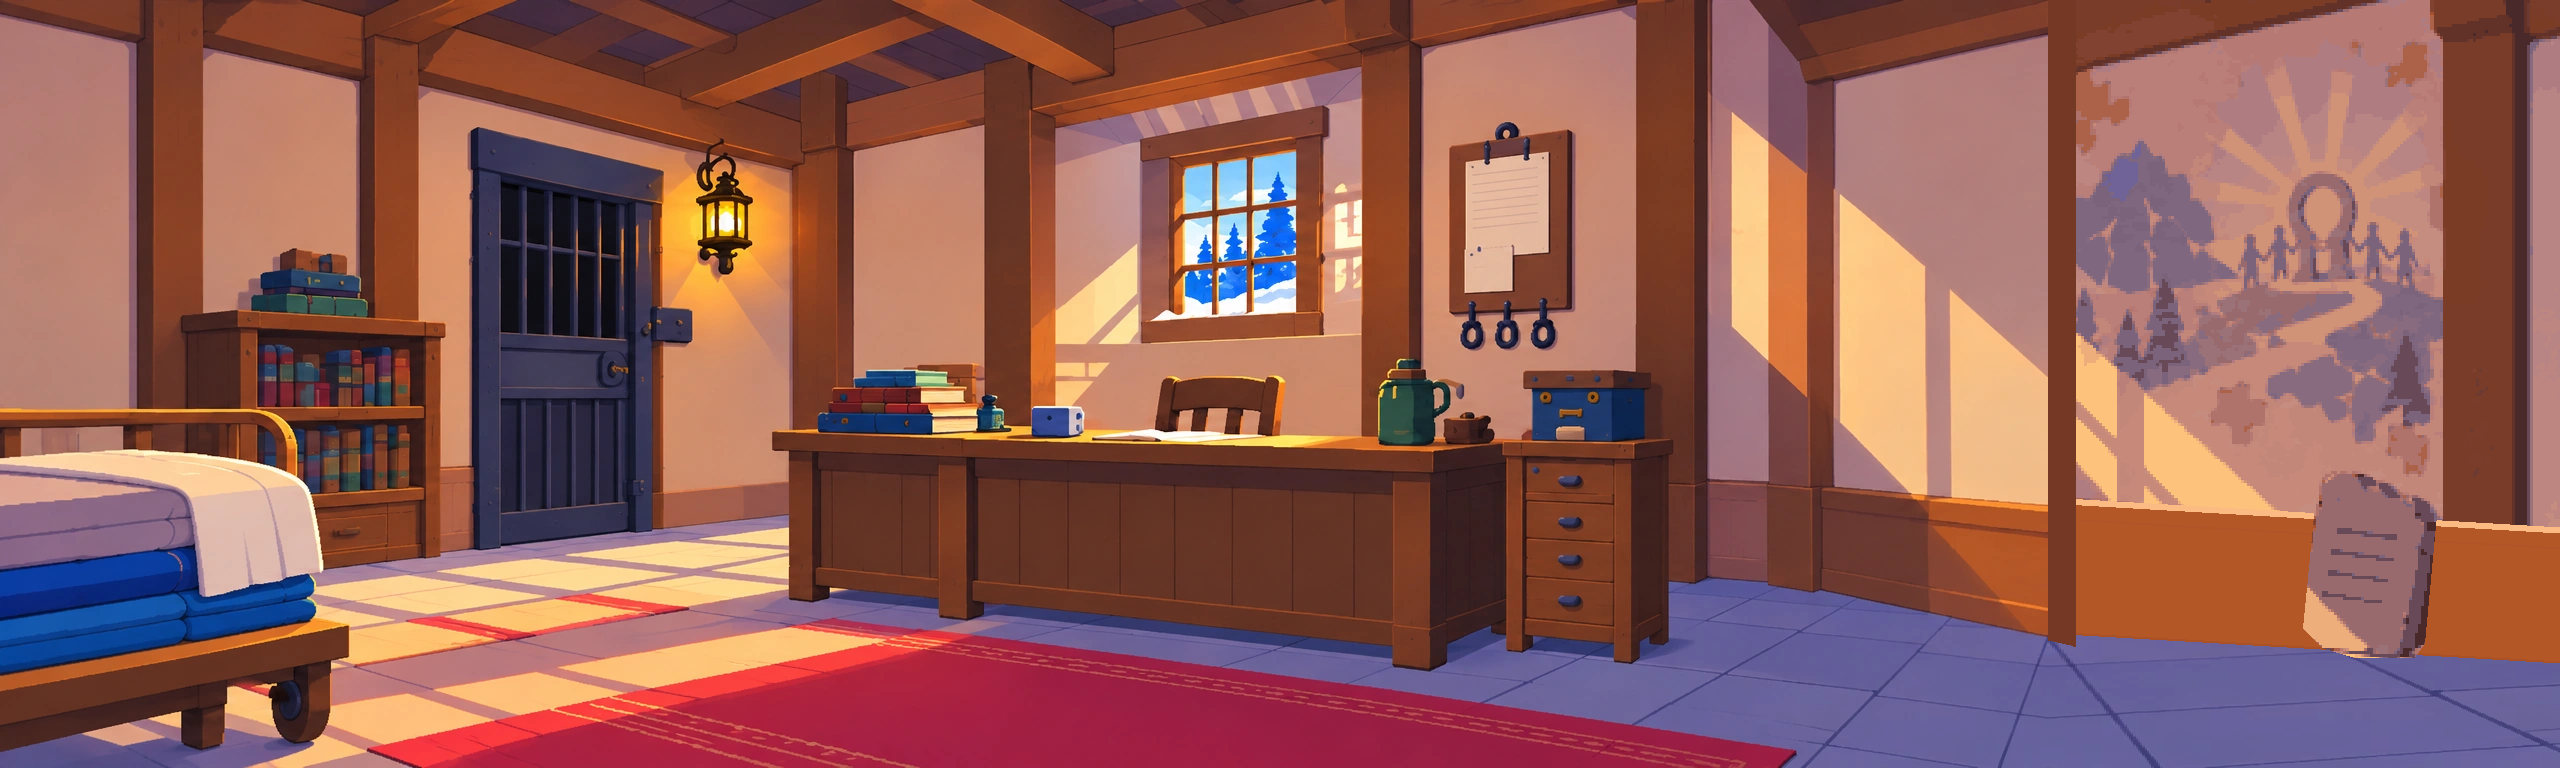
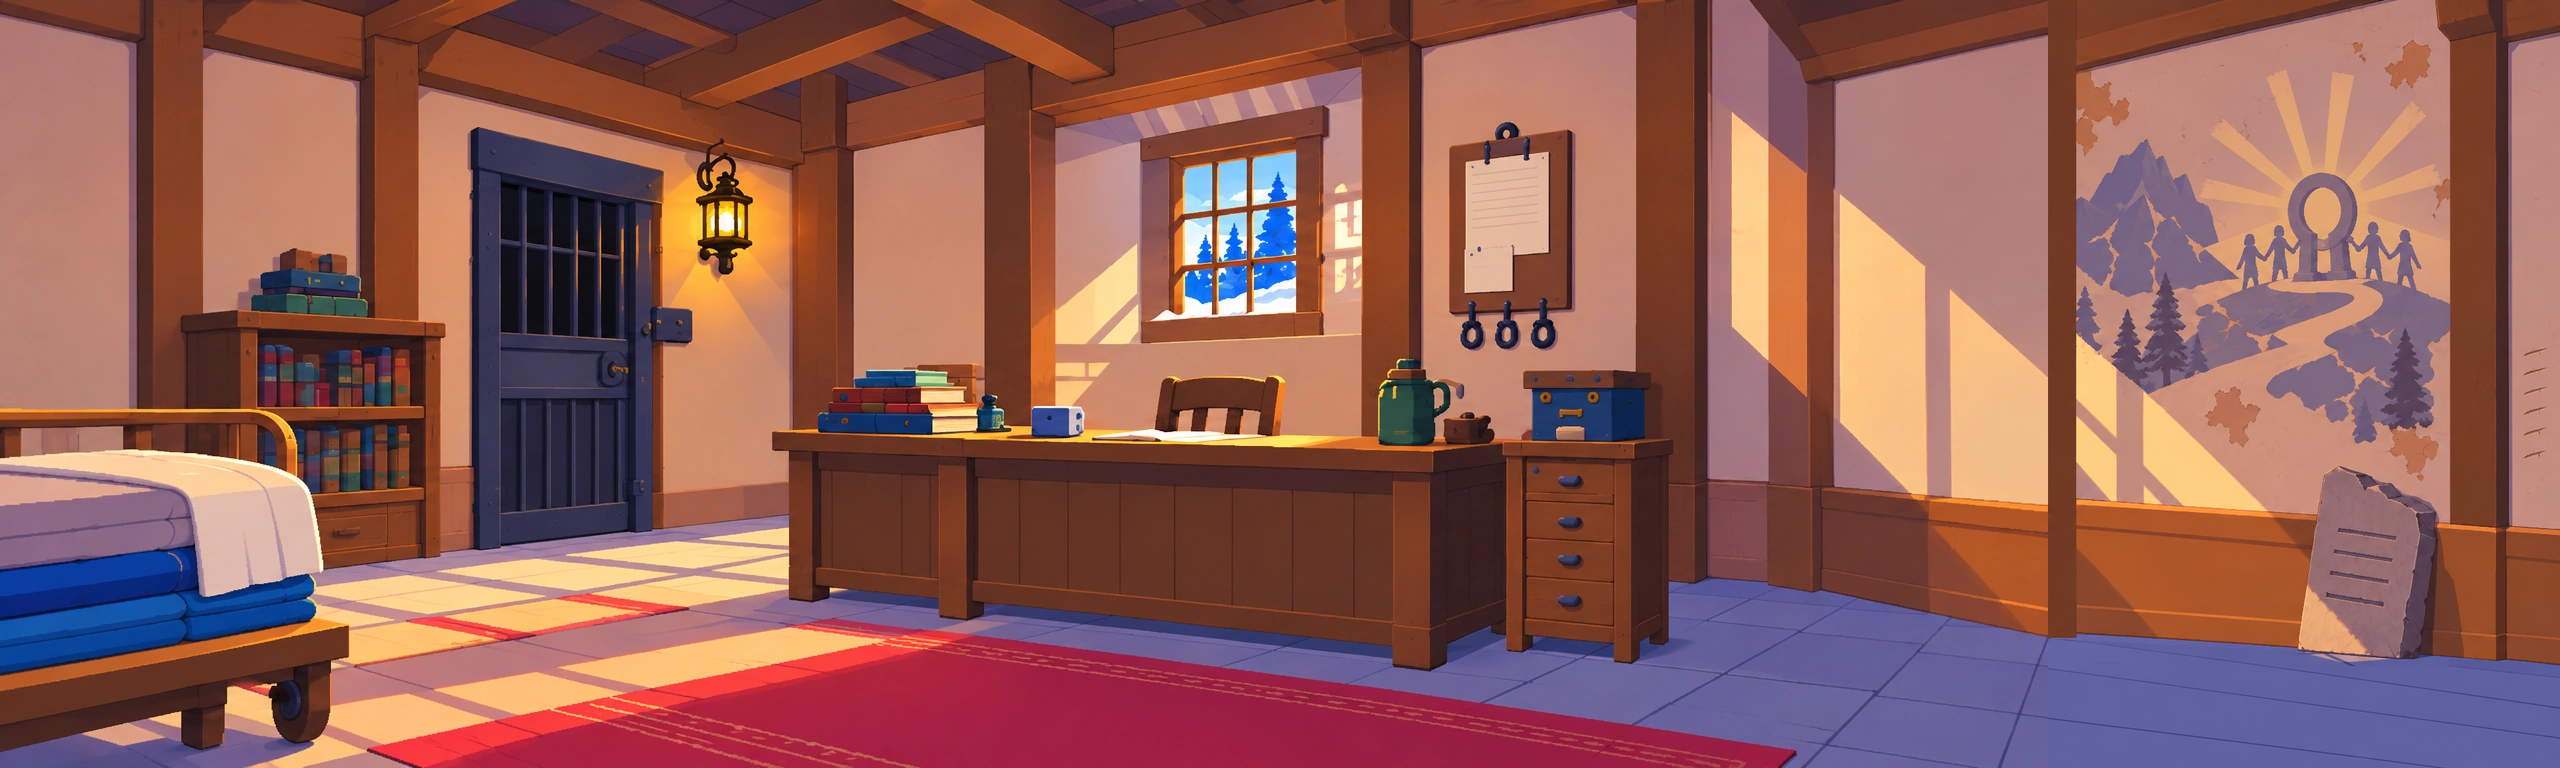
보호시설 벽화 3차 적용과 0.20.12 릴리스 노트
- 벽화를 원래 시설 그림과 같은 선명도로, 바닥 이음새·돌판 재질·새긴 이름 줄 수정
- 벽화 조사 지점을 벽화와 돌판에 맞춤

Claude-Session: https://claude.ai/code/session_01BVKaTN8Pm83cMetpV5L2Wn

diff --git a/experiments/renpy-ch1/art/bg-woodshed-mural-20261023/round2/work/assemble3.py b/experiments/renpy-ch1/art/bg-woodshed-mural-20261023/round2/work/assemble3.py
@@ -1,0 +1,51 @@
+from PIL import Image, ImageDraw, ImageFont
+from pathlib import Path
+import numpy as np
+import json, shutil
+R=Path(__file__).resolve().parents[1]; B=R.parent
+G=Path('/root/.codex/generated_images/01a16724-8aa1-7b93-8a68-9d82ecd59ba2')
+FILES={'afternoon':'exec-17e456e9-c990-4190-8263-2258f852f364.png','morning':'exec-6ff110f7-cb95-4172-92a6-28b502660f0b.png','evening':'exec-218c2163-e719-4b74-905c-efe2f3718d91.png'}
+font=ImageFont.truetype('/usr/share/fonts/truetype/dejavu/DejaVuSans.ttf',20)
+report=[]
+for t,name in FILES.items():
+ shutil.copy2(G/name,R/'work'/f'facility3-{t}-generated.png')
+ original=Image.open(B/'ref'/f'room13-pixel-ready-facility0177-{t}.webp').convert('RGB')
+ src=Image.open(G/name).convert('RGB').resize((1024,768),Image.Resampling.LANCZOS)
+ patch=src.crop((512,0,1024,768))
+ # Composite the separately corrected floor geometry, keeping each lighting variant's slab.
+ floor=Image.open(G/'exec-f9a12d05-e64d-4657-ac4d-dad7c39380ac.png').convert('RGB').resize((1024,768),Image.Resampling.LANCZOS).crop((512,0,1024,768))
+ shutil.copy2(G/'exec-f9a12d05-e64d-4657-ac4d-dad7c39380ac.png',R/'work'/'facility3-floor-generated.png')
+ arr=np.array(floor).astype(float)
+ # Color transfer uses the existing floor's diffuse midtone for each time of day.
+ aft=Image.open(B/'ref'/'room13-pixel-ready-facility0177-afternoon.webp').convert('RGB')
+ target=np.median(np.array(original)[680:750,1940:2020].reshape(-1,3),axis=0)
+ base=np.median(np.array(aft)[680:750,1940:2020].reshape(-1,3),axis=0)
+ arr*=target/base
+ floor=Image.fromarray(np.uint8(np.clip(arr,0,255)))
+ mask=Image.new('L',(512,768));md=ImageDraw.Draw(mask)
+ md.polygon([(0,638),(512,664),(512,768),(0,768)],fill=255)
+ # Slab and its immediate contact shadow remain from the lighting variant.
+ md.polygon([(250,630),(400,640),(400,669),(250,663)],fill=0)
+ patch.paste(floor,(0,0),mask)
+ out=Image.new('RGB',(2560,768));out.paste(original,(0,0));out.paste(patch,(2048,0))
+ out.save(R/f'facility-wide3-{t}.webp',lossless=True,method=6)
+ check=np.array(Image.open(R/f'facility-wide3-{t}.webp').convert('RGB'))
+ diff=check[:,:2048].astype(int)-np.array(original).astype(int)
+ assert not diff.any()
+ report.append({'time':t,'size':list(out.size),'changed_original_pixels':int(np.any(diff,axis=2).sum()),'max_channel_difference':int(abs(diff).max())})
+(R/'work'/'validation3.json').write_text(json.dumps(report,indent=2)+'\n')
+p=Image.new('RGB',(1280,3450),'#20202a');d=ImageDraw.Draw(p)
+for i,t in enumerate(['morning','afternoon','evening']):
+ im=Image.open(R/f'facility-wide3-{t}.webp')
+ d.text((10,i*750+4),f'{t.upper()} - RIGHT VIEW 1280 x 720 (x=1280, y=48)',font=font,fill='white')
+ p.paste(im.crop((1280,48,2560,768)),(0,i*750+30))
+# Native 320x180 crops enlarged exactly 2x, no smoothing.
+a=Image.open(B/'ref'/'room13-pixel-ready-facility0177-afternoon.webp');b=Image.open(R/'facility-wide3-afternoon.webp');old=Image.open(R/'facility-wide-afternoon.webp')
+comparisons=[(a,(1430,110),'ORIGINAL FACILITY - 2x',b,(2110,100),'NEW MURAL - 2x'),(old,(1990,588),'ROUND 2 FLOOR JOIN - 2x',b,(1990,588),'ROUND 3 FLOOR JOIN - 2x'),(old,(2240,430),'ROUND 2 TABLET - 2x',b,(2240,430),'ROUND 3 STONE / SCRATCHES - 2x')]
+for row,(a,pa,la,b,pb,lb) in enumerate(comparisons):
+ y=2250+row*400
+ for col,(im,pt,label) in enumerate([(a,pa,la),(b,pb,lb)]):
+  d.text((col*640+8,y+5),label,font=font,fill='white')
+  x,z=pt;p.paste(im.crop((x,z,x+320,z+180)).resize((640,360),Image.Resampling.NEAREST),(col*640,y+35))
+p.save(R/'preview3_facility.png')
+print(json.dumps(report))

diff --git a/experiments/renpy-ch1/art/bg-woodshed-mural-20261023/round2/NOTES.md b/experiments/renpy-ch1/art/bg-woodshed-mural-20261023/round2/NOTES.md
@@ -29,3 +29,27 @@
 - 보호시설 신규 벽은 원본보다 팔레트가 단순하다. 연결부를 새 기둥으로 처리했으므로 벽 칸의 경계는 보인다. 타일 원근과 낮 시간 햇빛의 정확한 연속성은 수작업 원화 수준으로 완벽하지 않다.
 - 벽화의 원형 장치는 고리처럼 읽힐 수 있지만 쇠·사슬은 넣지 않았다. 저녁의 퇴색 벽화는 의도적으로 대비가 낮다.
 - 확대 비교 후 시설 잔얼룩을 한 차례 더 줄이고 불필요한 바닥 조각을 정리했다. 최종 결과에도 소수의 색 경계와 생성 흔적은 남아 있으므로 미리보기로 최종 미술 검수를 할 수 있게 했다.
+
+## 3차 — 보호시설 오른쪽 이음 다듬기 (2026-10-23)
+
+### 납품 및 검증
+- `facility-wide3-morning.webp`, `facility-wide3-afternoon.webp`, `facility-wide3-evening.webp`: 각각 2560×768, 무손실 WebP.
+- `preview3_facility.png`: 세 시간대 오른쪽 끝 1280×720(x1280, y48)을 원배율로 세로 배치하고, 아래에 원본 시설/새 벽화, 2차/3차 바닥 이음, 2차/3차 돌판과 긁힌 흔적을 최근접 2배 확대해 비교했다. 비교 조각은 각각 원본 320×180px이다.
+- 저장한 WebP를 다시 읽어 `../ref/room13-pixel-ready-facility0177-{시간대}.webp`와 x0~2047 전체를 비교했다. 세 시간대 모두 변경 픽셀 **0**, 최대 채널 차이 **0**. `work/validation3.json`에 기록했다.
+- 통과한 장작 창고 및 게임 파일은 이번 작업에서 수정하지 않았다. 작업 시작 전에 있던 게임·미리보기 변경도 건드리지 않았다.
+
+### 수정 내용과 방법
+- 내장 image_gen 편집으로 오후 확장부를 다시 그렸다. 2차의 중앙값 필터, 32색 제한, 3px 최근접 확대를 적용하지 않았다. 벽화의 큰 블록을 줄이고 작은 경계를 살렸다. 산길, 둥근 돌 장치와 방사광, 손을 모은 벽화 속 사람 기호, 바랜 도장과 일부 벗겨짐을 유지했다. 실제 인물, 쇠·사슬, 읽을 글자, 정답 표시는 추가하지 않았다.
+- 기둥 옆 오른쪽 회벽에 짧은 가로 긁힘을 세로로 늘어놓았다. 읽을 이름 대신 칼로 긁은 목록 흔적으로 표현했다.
+- 돌판에 두꺼운 회색 측면, 깨진 윗면과 단면, 바닥 접촉 그림자와 음각 줄을 넣었다. 벽에 기대 놓인 깨진 석판으로 수정했다.
+- 오후 구도를 기준으로 아침·저녁 조명을 별도 편집했다. 아침은 청보라 주변광과 연한 복숭아색 창 빛, 오후는 따뜻한 벽과 이어지는 사선 창 빛, 저녁은 창 빛을 지운 청보라 어둠으로 맞췄다.
+- 바닥은 추가 이미지 편집으로 오른쪽으로 올라가던 가로 줄눈을 내려가는 방향으로 바꿨다. 중앙 이음에서 갈라지던 깊이 줄눈도 기존 방향으로 이어지게 정리했다. 이 바닥 조각을 세 시간대에 공통 합성하고 원본 바닥 중간색 비율로 시간대 색을 맞췄다. 돌판과 접촉 부분은 각 시간대 편집본을 보존했다.
+- 생성본은 `work/facility3-*-generated.png`, 바닥 수정본은 `work/facility3-floor-generated.png`, 합성·검증 및 미리보기 코드는 `work/assemble3.py`에 보관했다. 생성본은 1024×768 문맥 조각에 맞춰 Lanczos 축소한 뒤 오른쪽 512px만 사용했다. 최종 왼쪽 2048px은 생성본을 사용하지 않고 원본에서 그대로 복사했다.
+
+### 사용 프롬프트 세트 (내장 도구, CLI/API 미사용)
+1. 오후 편집: “precise-object-edit; preserve camera, structure and entire LEFT HALF pixel positions; RIGHT HALF only: redraw faded mural with sharp fine 1–2 pixel edges and flat color shapes matching left original artwork resolution, NOT chunky 6px pixel blocks, no blur or stippling.” 산길 끝 둥근 돌 장치·방사광·손 모은 벽화 인물, 바랜 색·벗겨짐, 기둥 옆 목록 모양 긁힘, 두꺼운 회색 돌판과 깨진 단면, 줄눈 연속성, 오후 창 빛을 지정했다.
+2. 아침: “FIRST image is exact geometry MASTER; change ONLY lighting and colors to MORNING matching second reference: cool lavender blue plaster and floor, pale peach sunlight diagonals in exact master positions, muted blue faded mural, brown timber. Do not copy chunky mural from second.”
+3. 저녁: “FIRST image exact geometry master; change ONLY colors/lighting to EVENING matching SECOND reference: cool dim blue purple plaster and floor, dark brown timber, subdued muted blue purple mural. Remove ALL sunlight stripes and hard sunlit highlights including on stone and baseboard.”
+4. 바닥 재편집: “Correct ONLY floor tiles in RIGHT HALF. The horizontal grout lines currently slope UP toward right, this is incorrect. They must slope gently DOWN toward RIGHT exactly continuing left half tile crosslines. At image center x724, existing crosslines arrive y~941 and ~1015 in this 1448×1086 image. Continue these diagonally DOWN to right with slope +0.10. The near vertical tile depth lines should also continue the existing LEFT floor vanishing direction. No crossing chevrons, no new vanishing point at center pillar.”
+
+생성 기반 편집이므로 원본 작화와 붓·팔레트가 수학적으로 동일하다는 보장은 없다. 왼쪽 원본 보존은 수치 검증했고, 확장부의 선명도·돌 재질·이음은 2배 비교 조각으로 검수할 수 있게 했다.

diff --git a/experiments/renpy-ch1/docs/releases/RELEASE_0.20.12.md b/experiments/renpy-ch1/docs/releases/RELEASE_0.20.12.md
@@ -1,0 +1,28 @@
+# Room13 0.20.12
+
+0.20.10~0.20.11에서 남겨 둔 세 가지(후반 기획서 C안, 새 그림이 필요한 두 장소, 자료 목록 이름 잘림)를 반영했다(소유자 2026-10-23 "다 해"). 사실·정답·생사·결말 판정은 바꾸지 않았다.
+
+## 13일 구조 뒤 확인을 세 대화로(후반 기획서 C안)
+
+- 구조 뒤 다섯 확인(호송, 명령 중지, 강제 운반 거부, 빈 수레 반환, 중지 명령 전달)을 바둑이·돌목·까로 세 사람과의 대화로 묶었다.
+- 돌목: 「명령 전체를 중지하고, 사본을 직접 전하겠습니다.」 — 명령을 멈춘 뒤 바로 너울에게 사본을 보이러 간다. 맞는 자료를 보이지 못했으면 「중지 명령 사본을 너울에게 다시 보인다.」가 남는다.
+- 까로: 「강제 운반은 맡지 말고, 빈 수레를 돌려주자.」 — 운반 거부 뒤 바로 은호에게 빈 수레를 돌려준다.
+- 마친 확인은 목록에서 빠진다. 판정 값(`current_transport_chain_stopped`의 여섯 조건)은 그대로다.
+
+## 새 배경(도트 화풍, 긴 화면)
+
+- 6일 장작 창고 안: 바깥 장작더미 그림 대신 창고 안 그림(오후·저녁). 안쪽으로 반쯤 열린 문과 그 앞 젖은 장작, 아이들 담요·짚 자리, 물통과 천, 높은 뒤창, 상자 위 등잔. 화면 폭 2400으로 옆으로 끌어 본다. 조사 지점(문 앞 장작·물통·등잔)을 그림 위치에 맞췄다.
+- 보호시설: 오른쪽으로 벽 한 칸을 이어 화면 폭 2400. 새 벽에 바랜 벽화(산길 끝 둥근 돌 장치에서 빛이 퍼지고 사람들이 손을 모음), 반쯤 깨진 돌판, 칼로 긁은 이름 줄. 11일 「벽 그림과 돌판을 확인한다」 조사 지점을 새 벽으로 옮기고, 붐비는 장면용 자리 두 곳을 더했다. 왼쪽 원래 그림 부분은 픽셀 그대로라 예전 조사 지점·자리 좌표가 맞는다.
+- 그림은 기존 배경과 같은 도트 화풍(평평한 면, 각진 가장자리, 잔무늬 없음)으로 다시 그렸다(소유자 "배경 이미지 도트 퀄리티 비슷하게", "화면 길게"). 원본 `art/bg-woodshed-mural-20261023/round2/`.
+
+## 자료 목록 이름 잘림
+
+- PC 자료 목록(3×4 칸)은 그림을 조금 줄이고 이름을 세 줄까지 보인다. 「첫 비명 뒤 핀을 다시 채운 때」 같은 긴 이름도 끝까지 읽힌다.
+- 줄 나누기는 한글 한 글자와 공백·영문 폭을 다르게 재서 칸을 덜 낭비한다.
+- 안 읽은 자료 표시(●)는 이름 앞 대신 그림 오른쪽 위 모서리에 둔다.
+
+## 검사
+
+- `dev/check.sh`(단위 시험 894개, lint) 통과.
+- 화면 시험 70개(새 시험 `v111_nw_d13_cleanup_bundled` 포함) 통과.
+- 웹 빌드에서 자료 목록·창고 안·보호시설 화면 캡처, 저장·불러오기 확인.
